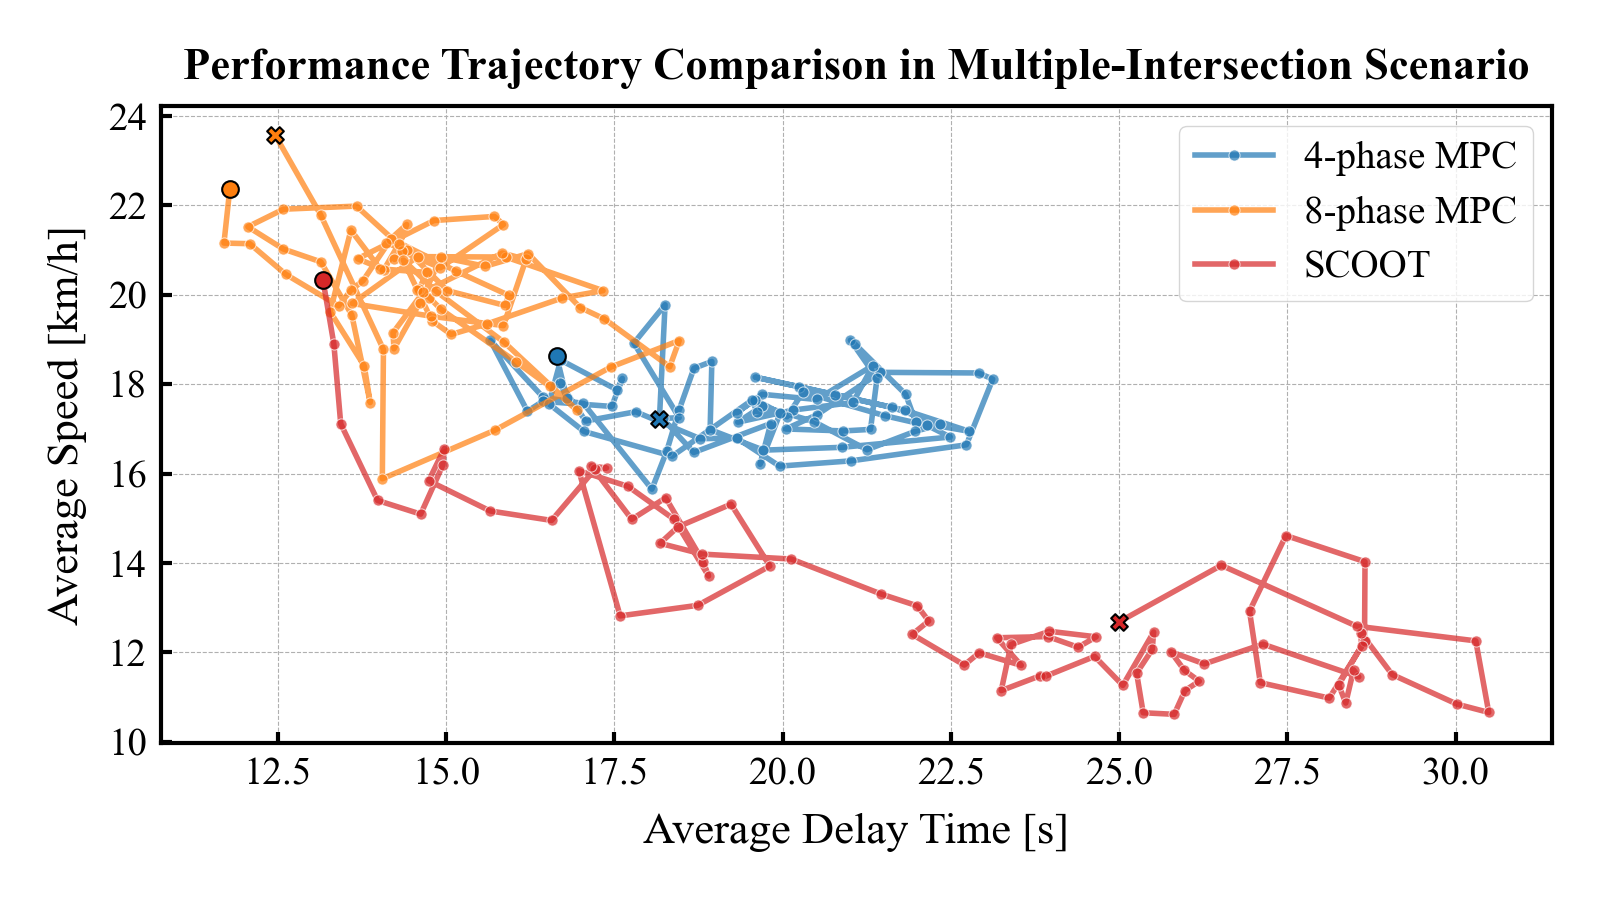
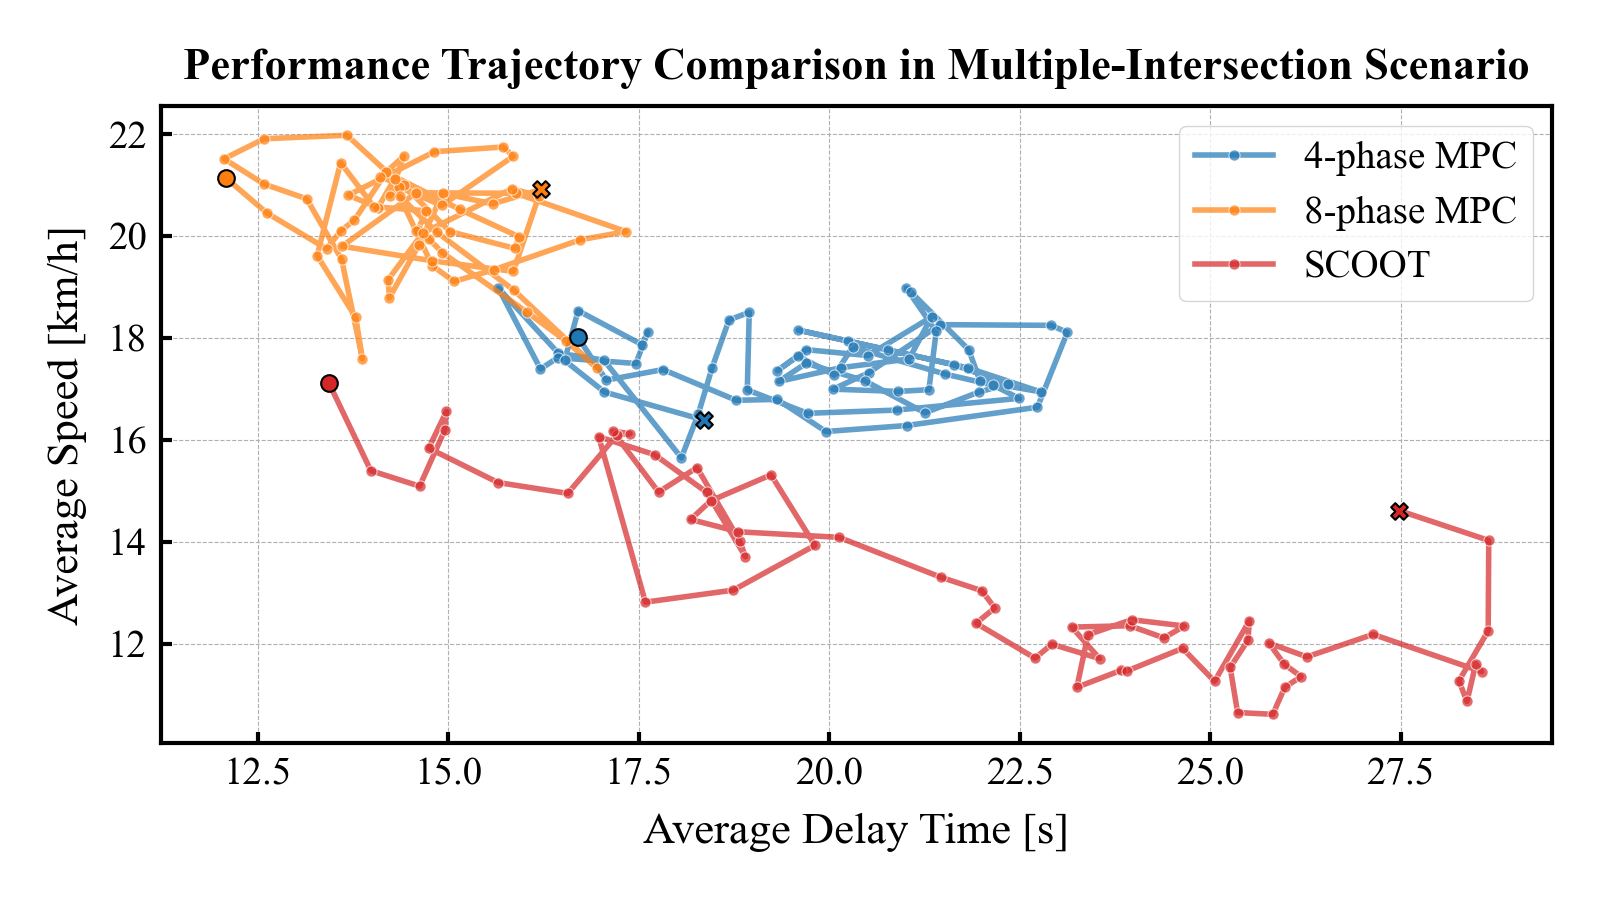
update figures

diff --git a/misc/analysis/performance_trajectory_plots/multiple_intersection/plot.py b/misc/analysis/performance_trajectory_plots/multiple_intersection/plot.py
@@ -74,14 +74,16 @@ for simulator_dir_path in inflow_dir_path.glob('simulator_*'):
             
             tmp_time_series_df = tmp_time_series_df[['time'] + list(config_yaml['target']['performance_metrics'].values())].copy()
             tmp_time_series_df['intersection'] = int(re.match(r"intersection_(\d+)", intersection_dir_path.name).group(1))
-            tmp_time_series_df = tmp_time_series_df.dropna(subset=config_yaml['target']['performance_metrics'].values()).reset_index(drop=True)
             tmp_time_series_df = tmp_time_series_df[tmp_time_series_df['time'] >= config_yaml['target']['remove_time']].reset_index(drop=True)
+            
             if time_series_df is None:
                 time_series_df = tmp_time_series_df.copy()    
             else:
                 time_series_df = pd.concat([time_series_df, tmp_time_series_df], ignore_index=True)
         
-
+        invalid_ids = time_series_df[list(config_yaml['target']['performance_metrics'].values())].isna().any(axis=1)
+        invalid_times = time_series_df.loc[invalid_ids, 'time'].unique()
+        time_series_df = time_series_df[~time_series_df['time'].isin(invalid_times)].reset_index(drop=True)
         time_series_df = time_series_df.groupby('time')[list(config_yaml['target']['performance_metrics'].values())].mean()
         time_series_df = time_series_df.iloc[::config_yaml['target']['down_sampling_rate'], :]
         time_series_df = time_series_df.rolling(window=config_yaml['target']['moving_average_window']).mean()
@@ -117,7 +119,6 @@ for simulator_dir_path in inflow_dir_path.glob('simulator_*'):
                 
                 tmp_time_series_df = tmp_time_series_df[['time'] + list(config_yaml['target']['performance_metrics'].values())].copy()
                 tmp_time_series_df['intersection'] = int(re.match(r"intersection_(\d+)", intersection_dir_path.name).group(1))
-                tmp_time_series_df = tmp_time_series_df.dropna(subset=config_yaml['target']['performance_metrics'].values()).reset_index(drop=True)
                 tmp_time_series_df = tmp_time_series_df[tmp_time_series_df['time'] >= config_yaml['target']['remove_time']].reset_index(drop=True)
 
                 if time_series_df is None:
@@ -125,6 +126,9 @@ for simulator_dir_path in inflow_dir_path.glob('simulator_*'):
                 else:
                     time_series_df = pd.concat([time_series_df, tmp_time_series_df], ignore_index=True) 
 
+            invalid_ids = time_series_df[list(config_yaml['target']['performance_metrics'].values())].isna().any(axis=1)
+            invalid_times = time_series_df.loc[invalid_ids, 'time'].unique()
+            time_series_df = time_series_df[~time_series_df['time'].isin(invalid_times)].reset_index(drop=True)
             time_series_df = time_series_df.groupby('time')[list(config_yaml['target']['performance_metrics'].values())].mean()
             time_series_df = time_series_df.iloc[::config_yaml['target']['down_sampling_rate'], :]
             time_series_df = time_series_df.rolling(window=config_yaml['target']['moving_average_window']).mean()
